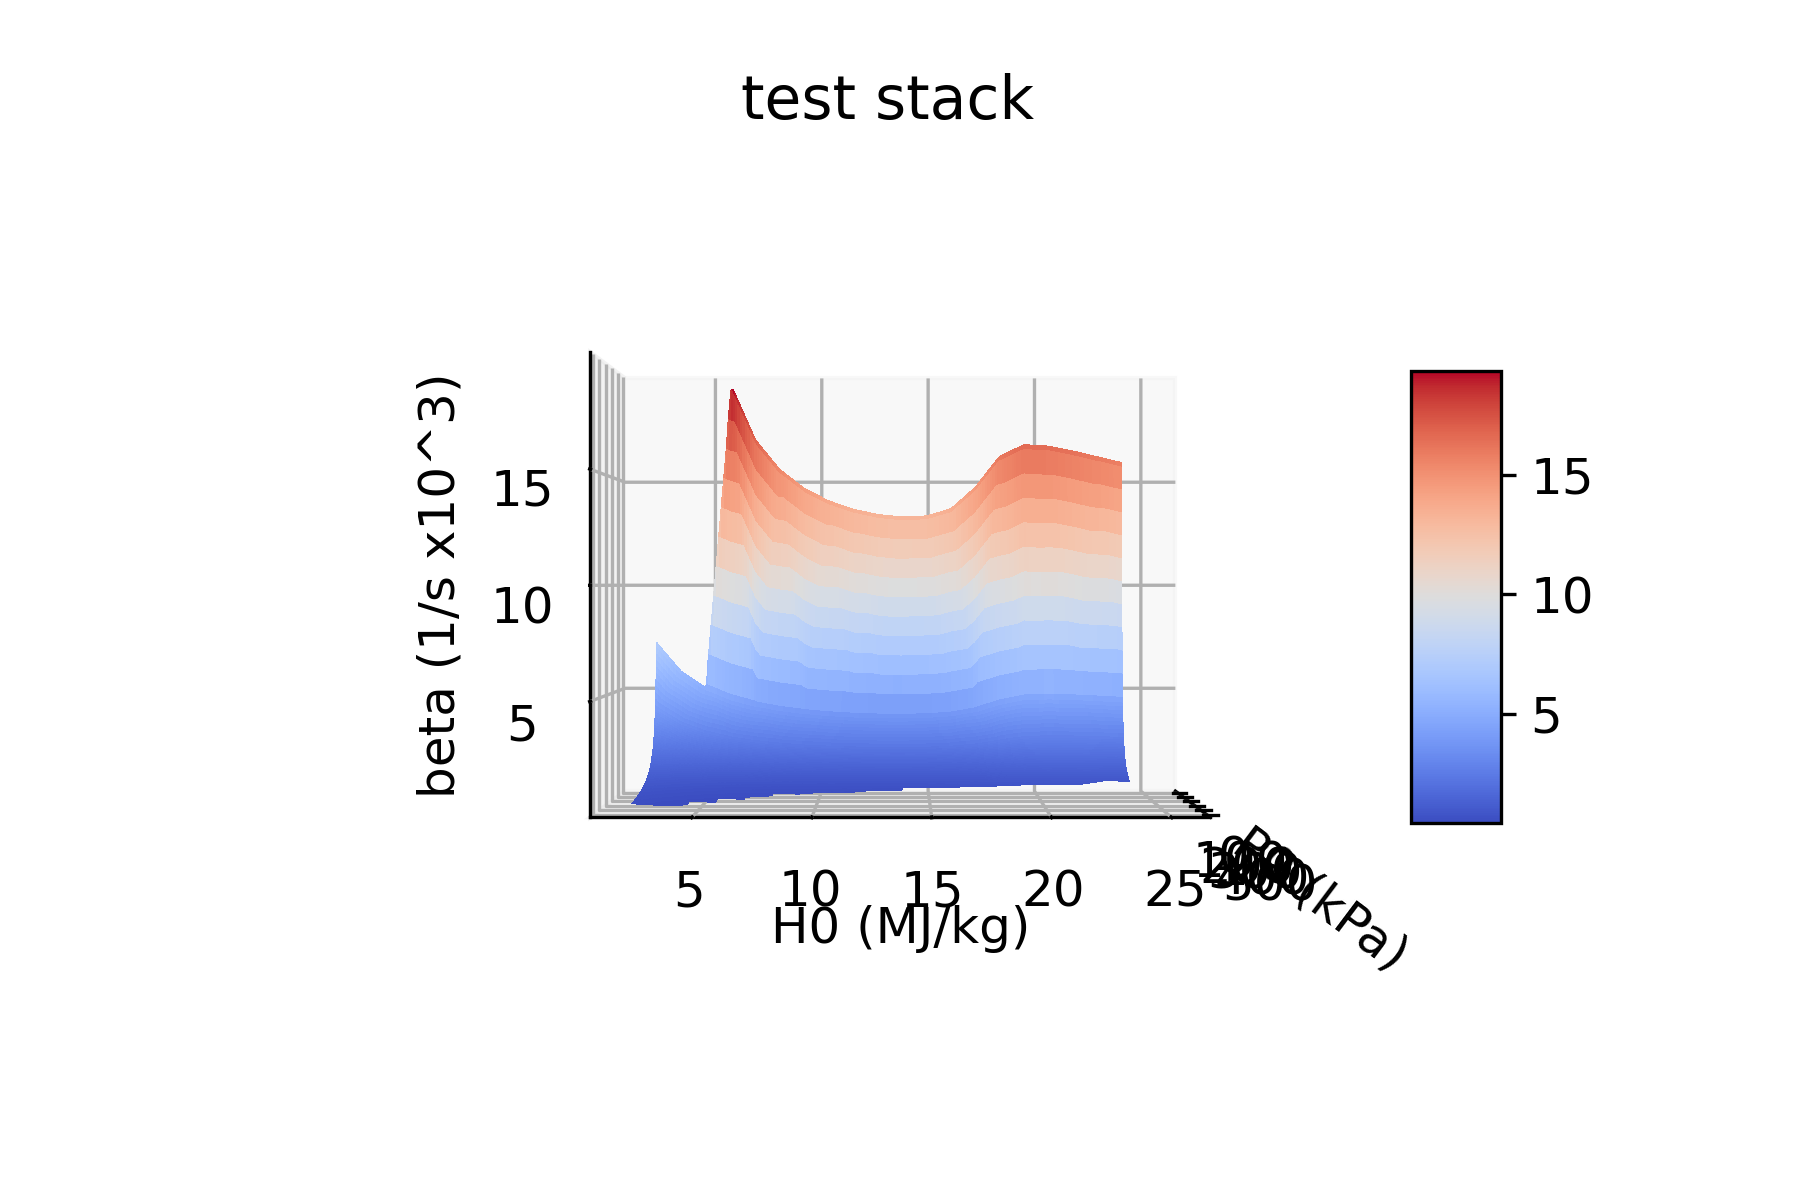
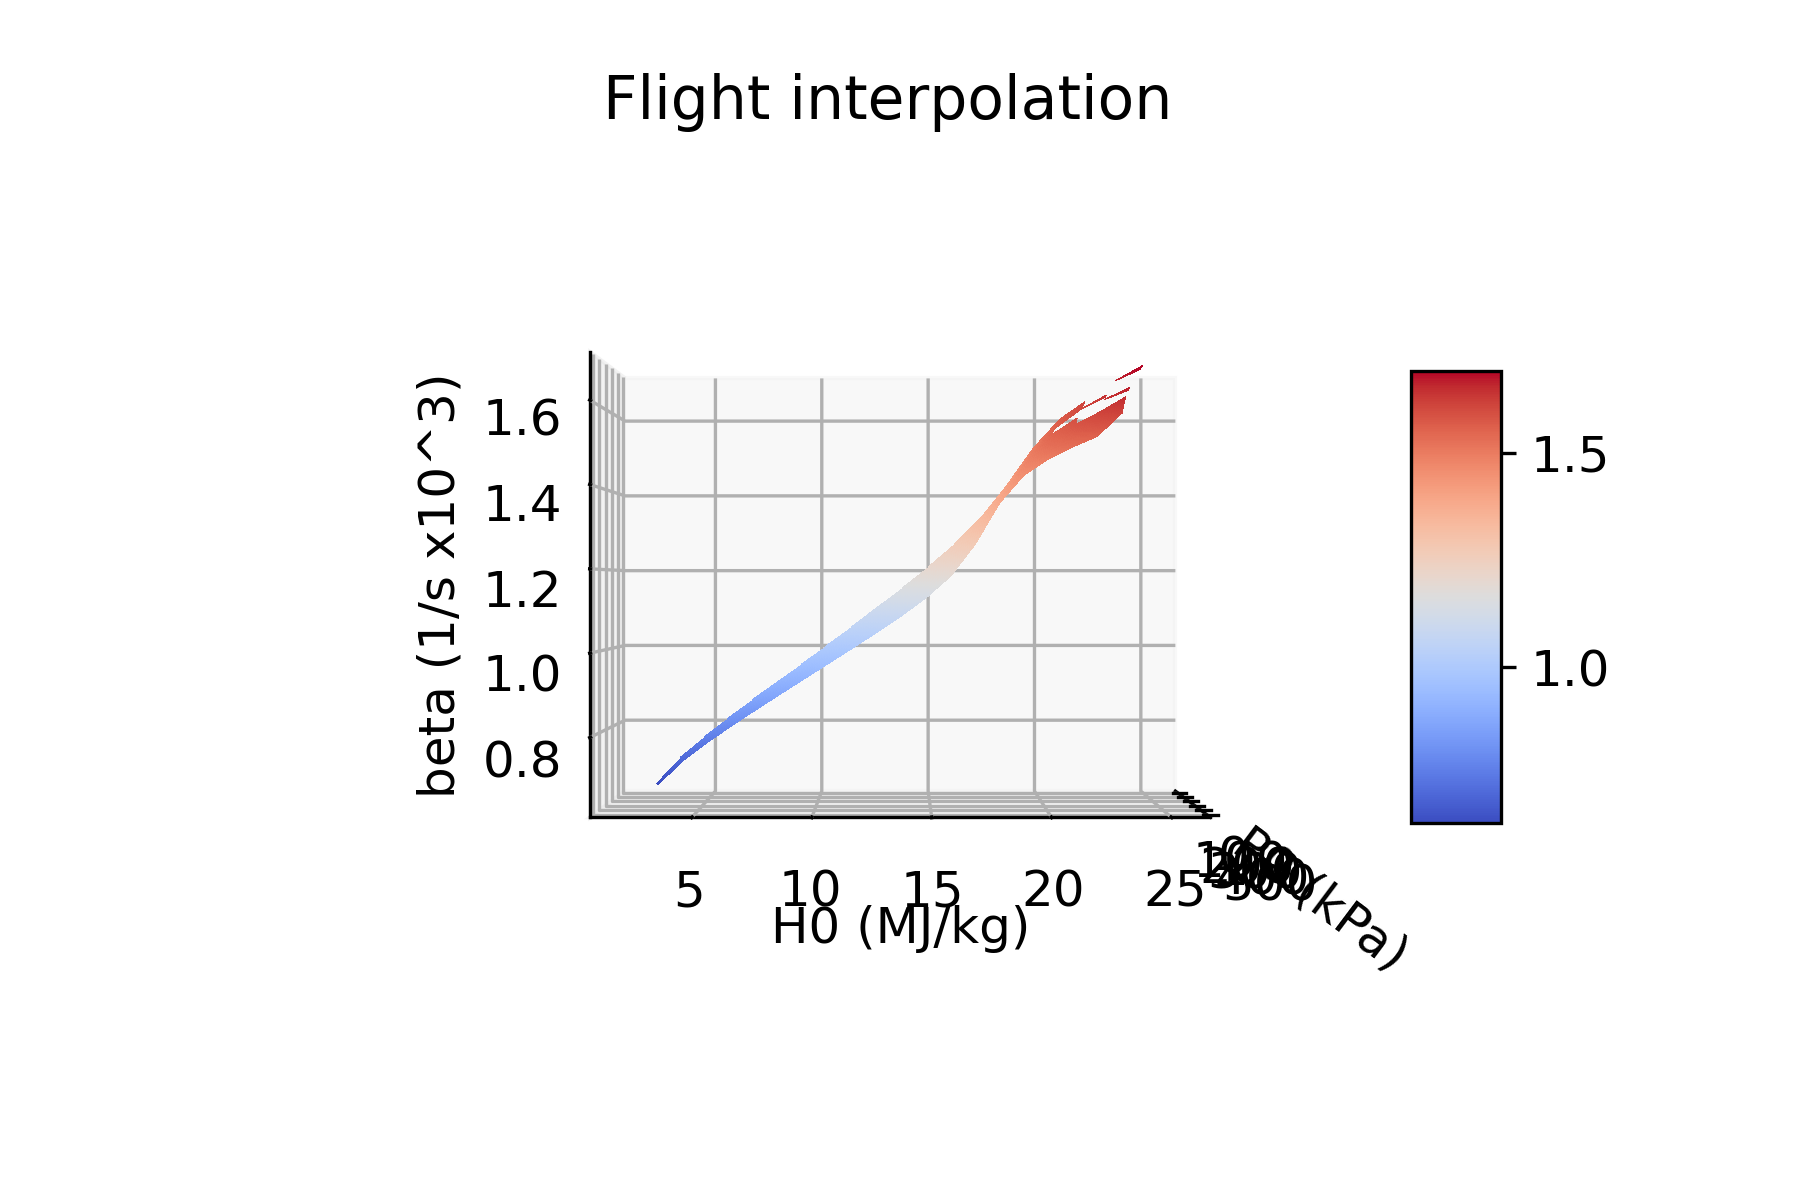
fixed some things

diff --git a/sub&supersonic_nozzle.py b/sub&supersonic_nozzle.py
@@ -329,6 +329,41 @@ def beta_curve_PWK(mdot_range,P_arc,P0_range,R_jet,R_model,resolution):
 
     return beta_square, P0, H_add, mdot_linspace, P0_linspace, H_add_linspace
 
+def PWK_CFD_inputs_from_intersection(H0,P0,P_arc,R_jet,R_model):
+    try:
+        H_add = H0 
+        mdot = 0.5*P_arc/H_add
+        gas = plenum_to_nozzle_inlet(H_add, P0)
+        data, amin = isentropic(gas, mdot)
+        print("H_add = " +str(H_add))
+        
+        data_subsonic = []
+
+        
+        data_design = Nozzle_selection(data, R_jet)
+        v_design = data_design[6]
+        beta_pwk = stagnation_velocity_gradient(v_design, R_jet, R_model)
+        print(
+            "Nozzle parameters \n"
+            "Pressure = " + str(data_design[5]) + " Pa \n"
+            "Temperature = " + str(data_design[2]) + " K \n"
+            "Velocity = " + str(data_design[6]) + " m/s \n \n"
+            "A/A* = " + str(data_design[0]) + " Pa \n""Pressure = " + str(data_design[5]) + " Pa \n"
+            "P0/P = " + str(1/data_design[3]) + "  \n"
+            "Outlet radius = " + str(0.05) + " m \n \n"
+            "h0 = " + str(H_add/(10**6)) + " MJ/kg \n"
+            "P0 = " + str(P0) + " Pa \n"
+            "beta = "+str(beta_pwk) +" 1/s \n" 
+            )
+        density_pwk = gas.density_mass
+        temperature_pwk = data_design[2]
+        pressure_pwk = data_design[3]*P0
+        velocity_pwk = data_design[6]
+    except:
+        beta_pwk=np.nan
+    
+    return  [beta_pwk, density_pwk, temperature_pwk, pressure_pwk, velocity_pwk]
+
 
 def beta_curve_flight(H0_linspace,P0_linspace,R_flight_vehicle,resolution):
     beta_square_flight = np.zeros((resolution,resolution)    )
@@ -374,11 +409,11 @@ def beta_curve_flight(H0_linspace,P0_linspace,R_flight_vehicle,resolution):
                                 # radius_flight = v_flight/(beta/(math.sqrt((8/3)*(density_flight/stagnation_density_flight))))
                                 beta_square_flight[count1][count2] = (v_flight/R_flight_vehicle)*math.sqrt((8/3)*(density_flight/stagnation_density_flight))
                             except:
-                                beta_square_flight[count1][count2] = 0
+                                beta_square_flight[count1][count2] = np.nan
                 else:
-                    beta_square_flight[count1][count2] = 0
+                    beta_square_flight[count1][count2] = np.nan
             except RuntimeWarning:
-                beta_square_flight[count1][count2] = 0
+                beta_square_flight[count1][count2] = np.nan
             number_done = number_done + 1
             print(str(100*number_done/number_of_points)+"% through flight calcs")
     
@@ -386,7 +421,7 @@ def beta_curve_flight(H0_linspace,P0_linspace,R_flight_vehicle,resolution):
 
     
     fig2 = plt.figure("2",figsize=(10,5))
-    nice_wireframe(H0,P0,beta_square_flight)
+    # nice_wireframe(H0,P0,beta_square_flight)
     ax = plt.axes(projection='3d')
     # ax.plot_wireframe(H_add/(10**6), P0/(10**3), beta_square)
     surf = ax.plot_surface(H0/(10**6), P0/(10**3), beta_square_flight/(10**3), cmap=cm.coolwarm, linewidth=1, antialiased=False, rcount=200, ccount=200)
@@ -403,6 +438,54 @@ def beta_curve_flight(H0_linspace,P0_linspace,R_flight_vehicle,resolution):
 
     return beta_square_flight, P0, H0
 
+def flight_CFD_inputs_from_intersection(h0,P0,R_flight_vehicle):
+    mech = 'airNASA9noions.cti'
+    q = 'CO2:1'    # assume CO2 atmosphere
+    
+    v_flight = (2*h0)**0.5
+    density_flight = P0/(v_flight**2)
+    altitude_flight = altitude_from_density_long2019(density_flight)
+    pressure_flight = pressure_from_altitude_basicNASA(altitude_flight) 
+    temperature_flight = temperature_from_altitude_basicNASA(altitude_flight)
+    print(
+        "temperature = "+str(temperature_flight) +"\n"
+        'density = '+str(density_flight)+"\n"
+        "altitude = "+str(altitude_flight)
+        )
+    # check for reasonable mars atmosphere
+    
+    if temperature_flight>[130]:
+        if [0.00001]<density_flight<[0.01]:
+            if altitude_flight>[3000]:
+        
+                gas_flight = ct.ThermoPhase(mech) 
+                gas_flight.TDY =  temperature_flight, density_flight, q
+                # temperature_flight = gas_flight.T
+                gas_flight.equilibrate('TV')
+                pressure_flight = gas_flight.P
+                print(pressure_flight)
+
+                # evaluate post shock conditions in flight 
+                gas_flight_postshock = PostShock_eq(U1=v_flight, P1=pressure_flight, T1=temperature_flight, q=q, mech=mech)
+                
+                # evaluate stagnation density in flight 
+                try:
+                    output = stgsolve(gas = gas_flight_postshock, gas1 = gas_flight, U1 = v_flight, Delta = 0.5)
+                    stagnation_density_flight = output['rho'][-1] 
+                
+                    # radius_flight = v_flight/(beta/(math.sqrt((8/3)*(density_flight/stagnation_density_flight))))
+                    beta_flight = (v_flight/R_flight_vehicle)*math.sqrt((8/3)*(density_flight/stagnation_density_flight))
+                except:
+                    beta_flight = np.nan
+    else:
+        beta_flight = np.nan
+    
+    velocity_flight = math.sqrt(2*h0)
+    
+    return [beta_flight, density_flight, temperature_flight, pressure_flight, altitude_flight, velocity_flight]
+
+# def CFD_inputs_from_line(intercept_coordinates)
+
 def ding(frequency):
     import winsound
     frequency = frequency  # Set Frequency To 2500 Hertz
@@ -410,8 +493,12 @@ def ding(frequency):
     winsound.Beep(frequency, duration)
 
 def compare_beta(resolution):
-    beta_square_PWK, P0_grid_PWK, H0_grid_PWK, mdot_linspace, P0_linspace, H_add_linspace = beta_curve_PWK(mdot_range=[0.005,0.05], P_arc = 240*10**3, P0_range=[600,500*10**3], R_jet = 0.03, R_model = 0.0254, resolution=resolution)
+    beta_square_PWK, P0_grid_PWK, H0_grid_PWK, mdot_linspace, P0_linspace, H_add_linspace = beta_curve_PWK(mdot_range=[0.005,0.05], P_arc = 240*10**3, P0_range=[10000,500*10**3], R_jet = 0.03, R_model = 0.0254, resolution=resolution)
+    P0_interpolated_grid_PWK, H0_interpolated_grid_PWK, beta_interpolated_grid_PWK = griddata_stack_solution(H0_grid_PWK,P0_grid_PWK,beta_square_PWK,"PWK interpolation")
+    
     beta_square_flight, P0_grid_flight, H0_grid_flight = beta_curve_flight(H_add_linspace,P0_linspace,1.652,resolution)
+    P0_interpolated_grid_flight, H0_interpolated_grid_flight, beta_interpolated_grid_flight = griddata_stack_solution(H0_grid_flight,P0_grid_flight,beta_square_flight,"Flight interpolation")
+    
     
     fig3 = plt.figure("3",figsize=(10,5))
 
@@ -585,12 +672,18 @@ def griddata_stack_solution(H0_square,P0_square,beta_square,name):
     y =  H0_square
     z = beta_square
     
+    for i in range(len(z)):
+        for ii in range(len(z)):
+            if z[i][ii] == 0:
+                z[i][ii] = np.nan
+    
     x=x.ravel()              #Flat input into 1d vector
     x=list(x[x!=np.isnan])   #eliminate any NaN
     y=y.ravel()
     y=list(y[y!=np.isnan])
     z=z.ravel()
     z=list(z[z!=np.isnan])
+
        
     xnew = np.arange(600,500000,(500000-600)/1000)
     ynew = np.arange(2.4*10**6,25*10**6, (25*10**6-2.4*10**6)/1000)
@@ -598,7 +691,7 @@ def griddata_stack_solution(H0_square,P0_square,beta_square,name):
 
     
     figC = plt.figure("C")
-    levels = np.linspace(500, max(z), 15)
+    levels = np.linspace(500, 20000, 15)
     plt.ylabel('Y', size=15)
     plt.xlabel('X', size=15)
     cs = plt.contourf(xnew, ynew, znew, levels=levels, cmap=cm.coolwarm)
@@ -625,7 +718,20 @@ def griddata_stack_solution(H0_square,P0_square,beta_square,name):
     plt.savefig('test5.png', dpi=300)
     ax.view_init(90,0)
     plt.savefig('test6.png', dpi=300)
+    
+    return X_new, Y_new, znew
 
+def surface_intercept(x1, y1, z1, x2, y2, z2):
+    z_intercept = z2-z1
+    fig3 = plt.figure("Figure 3")
+    cont = plt.contour(x1, y1, z_intercept,[0], colors = 'k')
+    p1 = cont.collections[0].get_paths()[1] # grab the 1st path
+    intercept_coordinates = p1.vertices
+    print(intercept_coordinates)
+
+    return  intercept_coordinates
+    
+    
 
 if __name__ == "__main__":
     # try:
@@ -633,9 +739,17 @@ if __name__ == "__main__":
         #all_in_one_matching(mdot = 0.5, P_arc = 240*10**3, P0=1*10**3, R_jet=0.5, R_model=0.0245)
         
         # uncomment for matching surfaces
-        # beta_square_PWK, H0_grid_PWK, P0_grid_PWK, beta_square_flight, H0_grid_flight, P0_grid_flight = compare_beta(resolution=7)
+        beta_square_PWK, H0_grid_PWK, P0_grid_PWK, beta_square_flight, H0_grid_flight, P0_grid_flight = compare_beta(resolution=20)
+        
+        intercept_coordinates = surface_intercept(H0_grid_PWK, P0_grid_PWK, beta_square_PWK, H0_grid_flight, P0_grid_flight, beta_square_flight)
+        
+        
+        
+        
+        
+        
         # figA = plt.figure("A",figsize=(10,5))
-        beta_square_PWK, P0_grid_PWK, H0_grid_PWK, mdot_linspace, P0_linspace, H_add_linspace = beta_curve_PWK(mdot_range=[0.005,0.05], P_arc = 240*10**3, P0_range=[10000,500*10**3], R_jet = 0.03, R_model = 0.0254, resolution=20)
+        # beta_square_PWK, P0_grid_PWK, H0_grid_PWK, mdot_linspace, P0_linspace, H_add_linspace = beta_curve_PWK(mdot_range=[0.005,0.05], P_arc = 240*10**3, P0_range=[10000,500*10**3], R_jet = 0.03, R_model = 0.0254, resolution=20)
         # ax = plt.axes(projection='3d')
         # surf = ax.plot_surface(H0_grid_PWK/(10**6), P0_grid_PWK/(10**3), beta_square_PWK/(10**3), cmap=cm.coolwarm, linewidth=1, antialiased=False, rcount=200, ccount=200)
         # plt.show()
@@ -643,9 +757,10 @@ if __name__ == "__main__":
         
         # beta_square_PWK, P0_grid_PWK, H0_grid_PWK, mdot_linspace, P0_linspace, H_add_linspace = beta_curve_PWK(mdot_range=[0.005,0.05], P_arc = 240*10**3, P0_range=[600,500*10**3], R_jet = 0.03, R_model = 0.0254, resolution=10)
         # bivariate_interpolation2(H0_grid_PWK,P0_grid_PWK,beta_square_PWK,"PWK interpolation")
-        griddata_stack_solution(H0_grid_PWK,P0_grid_PWK,beta_square_PWK,"PWK interpolation")
+        # griddata_stack_solution(H0_grid_PWK,P0_grid_PWK,beta_square_PWK,"PWK interpolation")
         # bivariate_interpolation(H0_grid_PWK,P0_grid_PWK,beta_square_PWK,"PWK")
         # bivariate_interpolation(H0_grid_flight,P0_grid_flight,beta_square_flight,"flight")
+        # line_intercept_of_two_surfs(H0_grid_PWK, P0_grid_PWK, beta_square_PWK, H0_grid_flight, P0_grid_flight, beta_square_flight)
         
         ding(2000)
         
